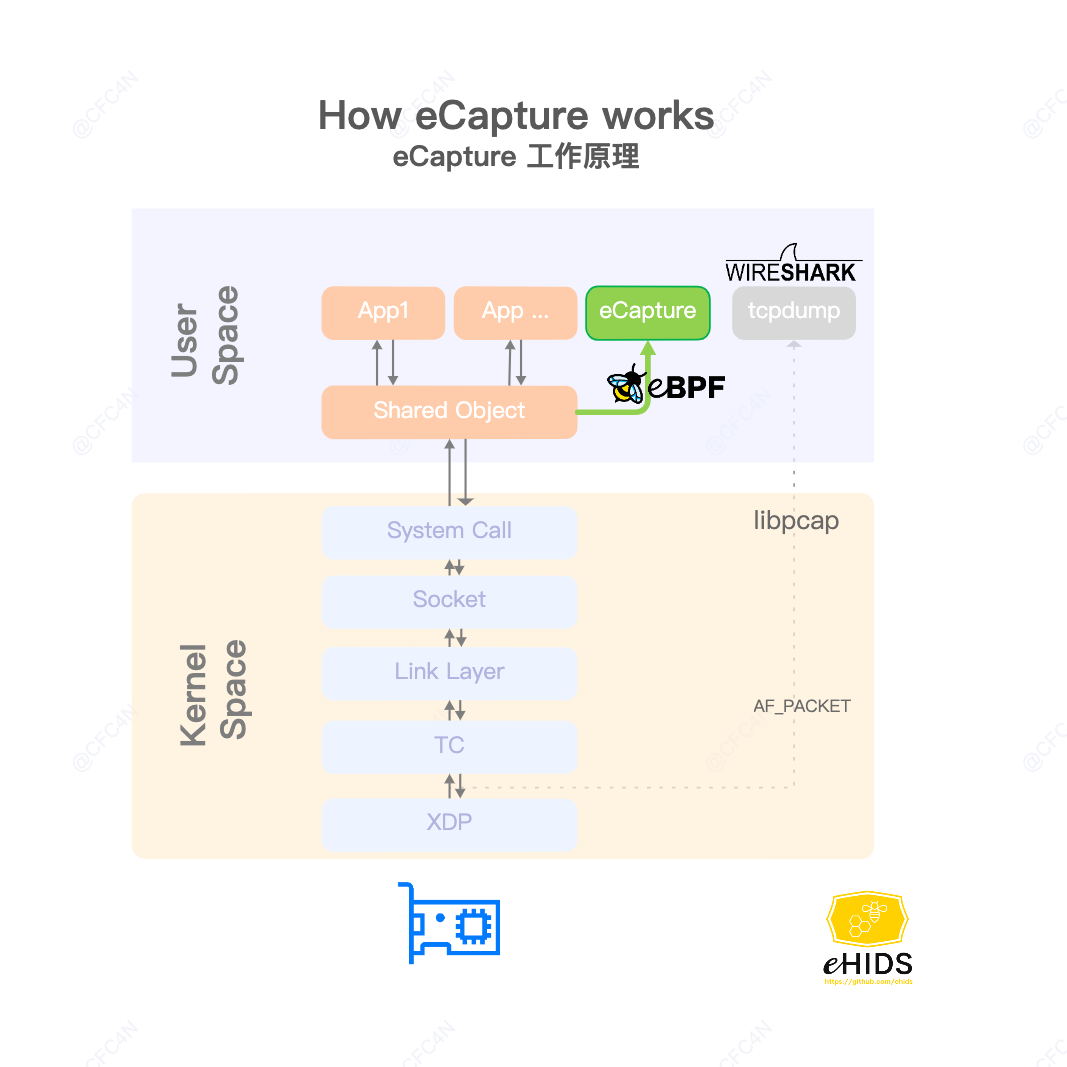
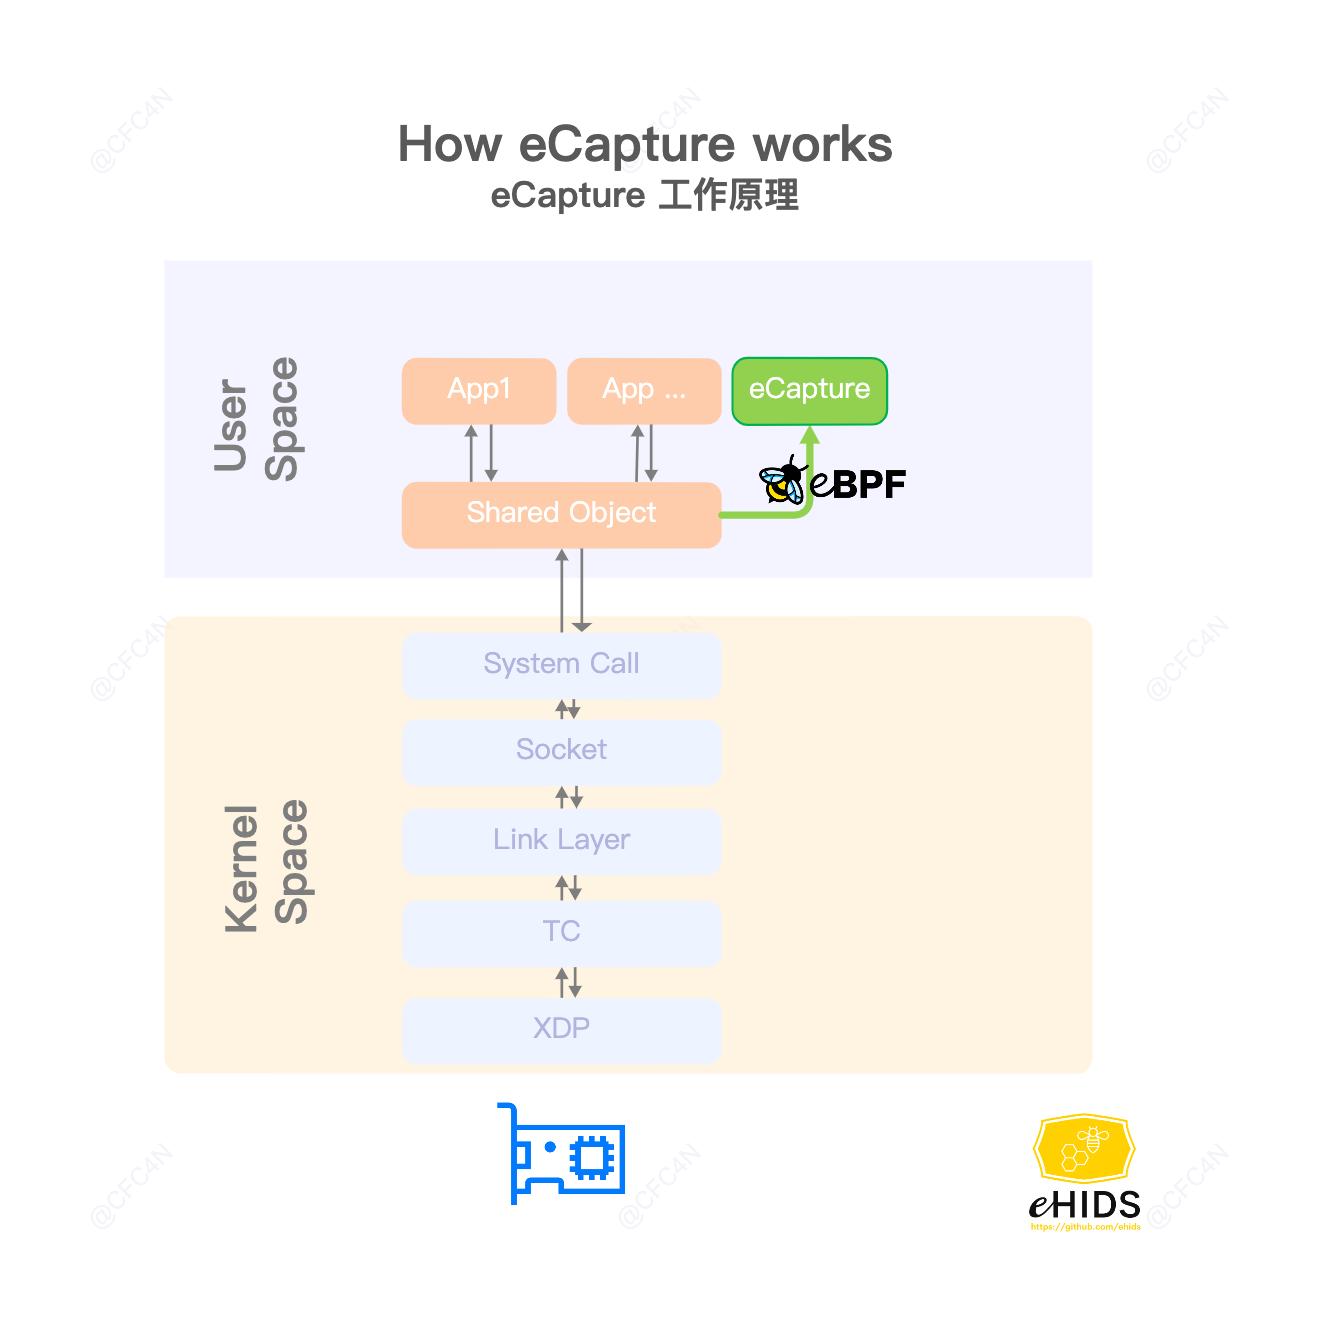
images : fix #34 Inaccurate/Confusing Diagrams

diff --git a/README.md b/README.md
@@ -10,7 +10,7 @@
 
 ![](./images/how-ecapture-works.png)
 
-* SSL/TLS text context capture, support openssl\gnutls\nspr(nss) librarys.
+* SSL/TLS text context capture, support openssl\gnutls\nspr(nss) libraries.
 * bash aduit, capture bash command for Host Security Aduot.
 * mysql query SQL aduit, support mysqld 5.6\5.7\8.0, and mariadDB.
 
